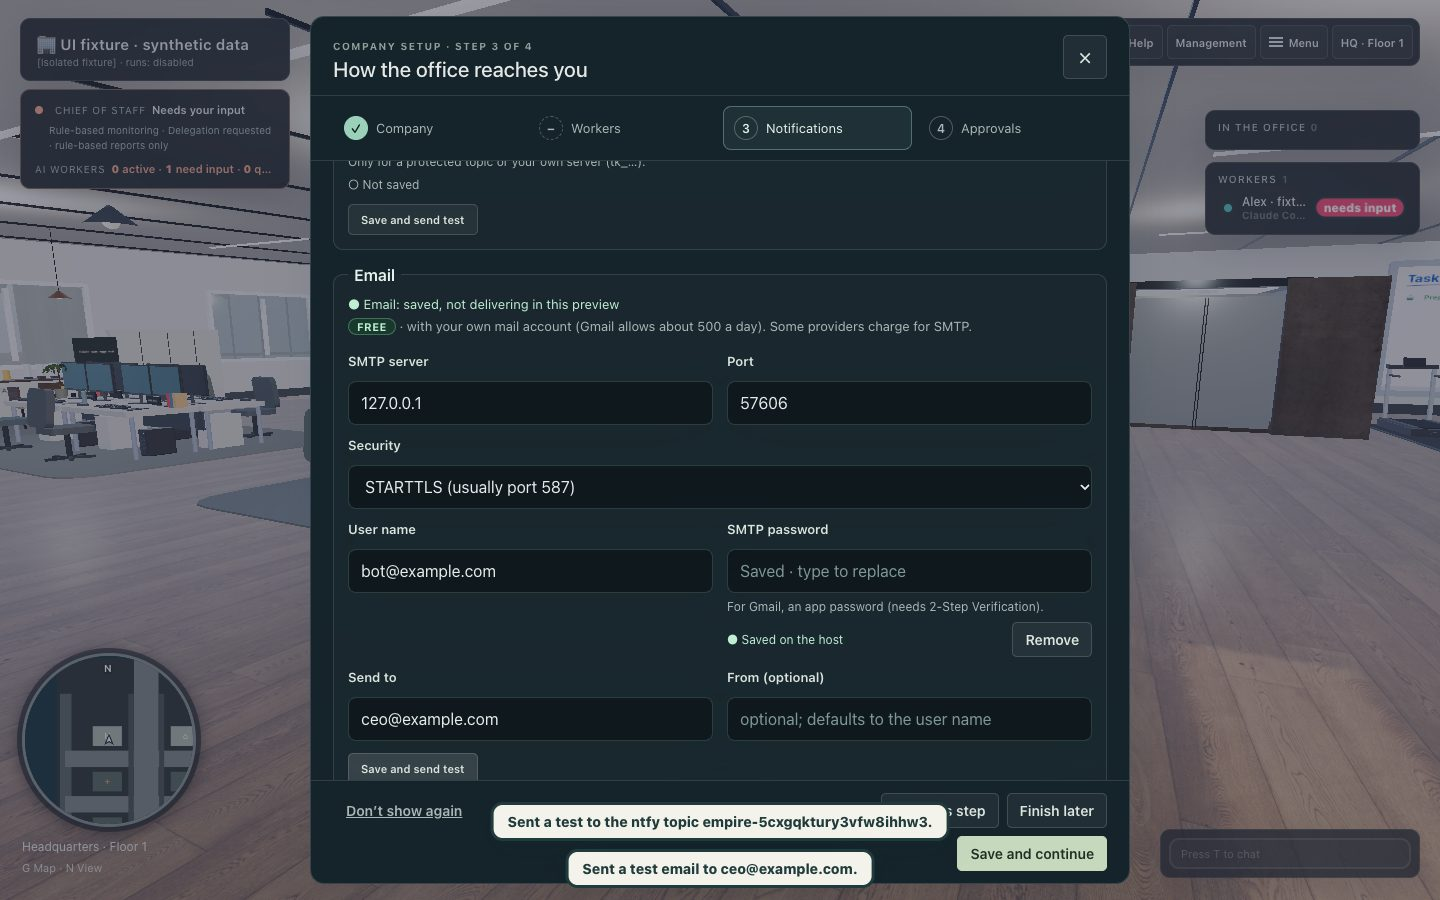
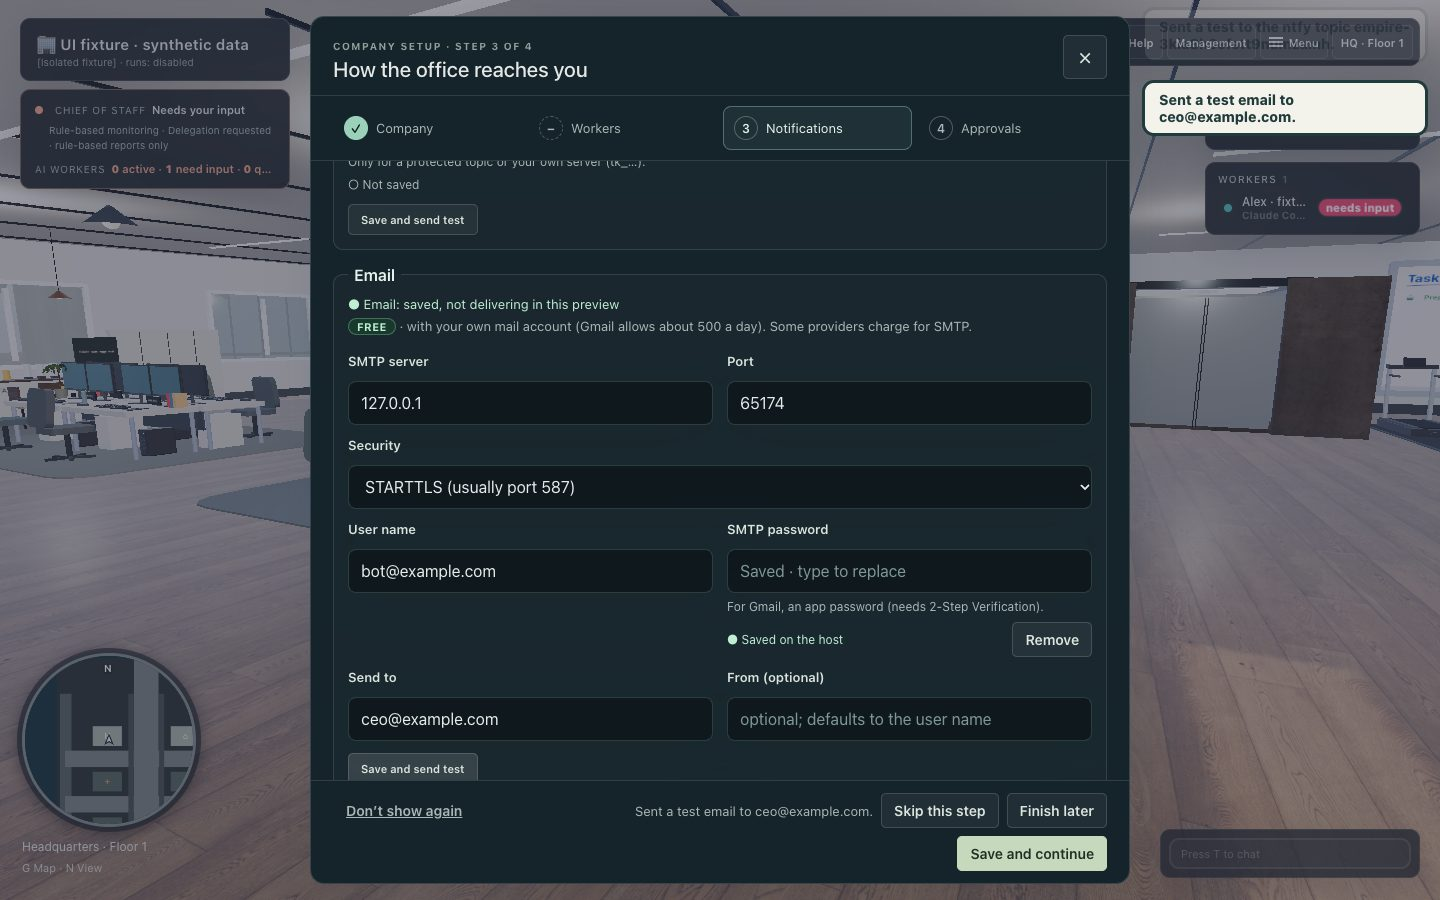
Review fixes: toasts stay clear of dialog footers; Company setup brings an open onboarding to the front
- placeToasts (ui/dom.ts): with a dialog open, toasts go beside it (top-right,
  outside its box) when there is room, else just above its footer; the update
  toast (Restart/Later, pointer events on) waits for the dialog to close in the
  narrow case. onboarding-ui-check now also asserts the footer and its buttons
  are uncovered and that an update toast never overlaps the dialog.
- Settings > Company setup while onboarding is open under Settings closes the
  dialogs above it and brings it back on its current step, without the 'reopen'
  call that moved host progress. Checked by clicking it from Settings opened by
  'Open Linked accounts…' (failed before: Settings stayed in front).
- Android debug builds: http://[::1] gets a clear message (the shell allows only
  10.0.2.2, 127.0.0.1 and localhost).

diff --git a/tools/onboarding-ui-check.ts b/tools/onboarding-ui-check.ts
@@ -49,14 +49,34 @@ async function next(p: Page) {
   await modal(p).locator('footer button.primary').click();
   await p.waitForTimeout(500);
 }
-/** Visible toasts that overlap the onboarding dialog's header or step rail (DEVTEST-02: they used to stack over the tabs). */
+/**
+ * Visible toasts that overlap the onboarding dialog's header, step rail, footer or footer buttons (DEVTEST-02: they
+ * first stacked over the tabs, then a bottom placement covered the footer).
+ */
 async function toastsOverHeader(p: Page) {
   return p.evaluate(() => {
     const m = document.querySelector('.onboarding-modal');
-    const zones = [m?.querySelector('header'), m?.querySelector('.ob-rail')].filter(Boolean).map((e) => (e as HTMLElement).getBoundingClientRect());
+    const zones = [m?.querySelector('header'), m?.querySelector('.ob-rail'), m?.querySelector(':scope > footer'), ...(m?.querySelectorAll(':scope > footer button') ?? [])]
+      .filter((e) => e && (e as HTMLElement).getClientRects().length).map((e) => (e as HTMLElement).getBoundingClientRect());
     const toasts = [...document.querySelectorAll('#toasts .toast')].filter((t) => t.getClientRects().length && getComputedStyle(t).visibility !== 'hidden').map((t) => t.getBoundingClientRect());
     const hit = toasts.filter((t) => zones.some((z) => t.left < z.right && t.right > z.left && t.top < z.bottom && t.bottom > z.top));
-    return { toasts: toasts.length, over: hit.length };
+    return { toasts: toasts.length, zones: zones.length, over: hit.length };
+  });
+}
+
+/** An update toast (Restart/Later buttons, pointer-events on) shown while the dialog is open: hidden, or clear of the dialog box. */
+async function updateToastClear(p: Page) {
+  return p.evaluate(() => {
+    const t = document.createElement('div');
+    t.className = 'toast update-toast';
+    t.innerHTML = '<span>A new version is ready</span><span class="update-toast-actions"><button class="btn primary">Restart</button><button class="btn">Later</button></span>';
+    document.getElementById('toasts')!.append(t);
+    const m = document.querySelector('.onboarding-modal')!.getBoundingClientRect();
+    const shown = t.getClientRects().length > 0;
+    const r = t.getBoundingClientRect();
+    const overlaps = shown && r.left < m.right && r.right > m.left && r.top < m.bottom && r.bottom > m.top;
+    t.remove();
+    return { shown, overlaps };
   });
 }
 
@@ -121,8 +141,20 @@ async function main() {
     await modal(p).getByRole('button', { name: 'Open Linked accounts…' }).click();
     const linked = await p.waitForSelector('.linked-accounts', { timeout: 10_000 }).then(() => true, () => false);
     check('"Open Linked accounts…" opens the existing panel above onboarding', linked);
-    await p.keyboard.press('Escape');
-    await p.waitForTimeout(400);
+    // Settings › Company setup while onboarding is open underneath: the same dialog comes back to the front, on the
+    // step it was on, and the host's progress is not moved by a "reopen" (DEVTEST-02 review).
+    const before = (await fixtureInfo(base)).progress;
+    await p.locator('.settings-modal .onboarding-section button').click();
+    await p.waitForFunction(() => !document.querySelector('.settings-modal') && document.querySelector('#modal-root > .backdrop:last-child .onboarding-modal'), null, { timeout: 10_000 }).catch(() => {});
+    const front = await p.evaluate(() => ({
+      settings: document.querySelectorAll('.settings-modal').length,
+      onboarding: document.querySelectorAll('.onboarding-modal').length,
+      topIsOnboarding: !!document.querySelector('#modal-root > .backdrop:last-child .onboarding-modal'),
+      focusInside: !!document.activeElement?.closest('.onboarding-modal'),
+    }));
+    const after = (await fixtureInfo(base)).progress;
+    check('Settings › Company setup over onboarding brings that dialog to the front (one dialog, focus inside)', front.settings === 0 && front.onboarding === 1 && front.topIsOnboarding && front.focusInside, JSON.stringify(front));
+    check('…on the step it was on, without moving the host progress', (await stepTitle(p)) === 'Who does the work' && after.current === before.current && after.status === before.status, `${await stepTitle(p)} | ${JSON.stringify(before)} -> ${JSON.stringify(after)}`);
     check('closing Linked accounts returns to onboarding', (await modal(p).count()) === 1 && (await p.locator('.linked-accounts').count()) === 0);
     await modal(p).getByRole('button', { name: 'Skip this step' }).click();
     await p.waitForTimeout(500);
@@ -161,7 +193,9 @@ async function main() {
     check('saved secrets are shown only as present', (await body.locator('.ob-secret-state[data-present=true]').count()) === 2 && /Saved · type to replace/.test((await tg.getByLabel('Bot token').getAttribute('placeholder')) ?? ''));
     check('saved channels say they do not deliver in this preview', /saved, not delivering in this preview/.test((await tg.textContent()) ?? ''));
     const t1 = await toastsOverHeader(p);
-    check('1440x900: "test sent" toasts never cover the dialog header or step tabs', t1.toasts > 0 && t1.over === 0, JSON.stringify(t1));
+    check('1440x900: "test sent" toasts never cover the dialog header, step tabs, footer or its buttons', t1.toasts > 0 && t1.zones >= 4 && t1.over === 0, JSON.stringify(t1));
+    const u1 = await updateToastClear(p);
+    check('1440x900: an update toast never overlaps the open dialog', !u1.overlaps, JSON.stringify(u1));
     await p.screenshot({ path: resolve(out, '04-notifications-saved-and-tested-1440x900.jpg'), quality: 82, fullPage: false });
     await body.evaluate((el) => { el.scrollTop = el.scrollHeight; });
     await p.screenshot({ path: resolve(out, '04b-notifications-email-1440x900.jpg'), quality: 82 });
@@ -237,7 +271,9 @@ async function main() {
       await s.page.waitForTimeout(700);
     }
     const t2 = await toastsOverHeader(s.page);
-    check('667x375: "test sent" toasts never cover the dialog header or step tabs', t2.toasts > 0 && t2.over === 0, JSON.stringify(t2));
+    check('667x375: "test sent" toasts never cover the dialog header, step tabs, footer or its buttons', t2.toasts > 0 && t2.zones >= 4 && t2.over === 0, JSON.stringify(t2));
+    const u2 = await updateToastClear(s.page);
+    check('667x375: an update toast never overlaps the open dialog', !u2.overlaps, JSON.stringify(u2));
     await s.page.screenshot({ path: resolve(out, '08b-notifications-toasts-667x375.jpg'), quality: 82 });
     check('667x375: no console errors', s.errors.length === 0, s.errors.join(' | '));
     await s.context.close();

diff --git a/src/client/ui/dom.ts b/src/client/ui/dom.ts
@@ -51,6 +51,13 @@ export function modalOpen(): boolean {
   return stack.length > 0;
 }
 
+/** Closes every dialog stacked above `modal`, so it is in front again (and takes focus back). */
+export function bringToFront(modal: Modal) {
+  if (!stack.includes(modal)) return;
+  while (stack[stack.length - 1] !== modal) stack[stack.length - 1].close();
+  if (!modal.el.contains(document.activeElement)) (focusables(modal.el)[0] ?? modal.el).focus({ preventScroll: true });
+}
+
 const FOCUSABLE = 'a[href], button:not([disabled]), input:not([disabled]), select:not([disabled]), textarea:not([disabled]), summary, [tabindex]:not([tabindex="-1"])';
 
 function focusables(root: HTMLElement): HTMLElement[] {
@@ -157,9 +164,51 @@ export function closeAllModals() {
   while (stack.length) stack[stack.length - 1].close();
 }
 
+const SIDE_MIN = 260;
+let watched: Element | null = null;
+const resizeWatch = typeof ResizeObserver !== 'undefined' ? new ResizeObserver(() => placeToasts()) : null;
+
+/**
+ * Toasts must never cover an open dialog's header, tabs or footer (DEVTEST-02 review). With room beside the dialog they
+ * sit there (top-right, outside its box); otherwise just above its footer. In that narrow case an interactive toast
+ * (the update toast) is held back until the dialog closes, so it can't block the dialog's controls.
+ */
+export function placeToasts() {
+  const box = document.getElementById('toasts');
+  if (!box) return;
+  const top = stack[stack.length - 1];
+  if (watched !== (top?.el ?? null)) {
+    if (watched) resizeWatch?.unobserve(watched);
+    watched = top?.el ?? null;
+    if (watched) resizeWatch?.observe(watched);
+  }
+  if (!top) {
+    delete box.dataset.place;
+    box.style.cssText = '';
+    return;
+  }
+  const r = top.el.getBoundingClientRect();
+  const gap = 12;
+  const side = window.innerWidth - r.right - gap * 2;
+  if (side >= SIDE_MIN) {
+    box.dataset.place = 'side';
+    box.style.cssText = `position: fixed; left: ${Math.round(r.right + gap)}px; top: ${Math.round(Math.max(r.top, gap))}px; bottom: auto; width: ${Math.round(Math.min(side, 360))}px; transform: none; align-items: stretch;`;
+  } else {
+    const footer = top.el.querySelector(':scope > footer');
+    const edge = footer ? footer.getBoundingClientRect().top : r.bottom;
+    box.dataset.place = 'above-footer';
+    box.style.cssText = `position: fixed; top: auto; bottom: ${Math.round(window.innerHeight - edge + 8)}px; max-width: min(560px, calc(100vw - 32px));`;
+  }
+}
+if (typeof window !== 'undefined') {
+  listeners.add(() => requestAnimationFrame(placeToasts));
+  window.addEventListener('resize', () => placeToasts());
+}
+
 export function toast(text: string, level: 'info' | 'warn' | 'error' = 'info', ms = 3500) {
   const el = h('div.toast', { class: level }, text);
   document.getElementById('toasts')!.append(el);
+  placeToasts();
   setTimeout(() => {
     el.style.transition = 'opacity .3s';
     el.style.opacity = '0';

diff --git a/src/client/setup/server-login.ts b/src/client/setup/server-login.ts
@@ -6,7 +6,7 @@ import { normaliseHost } from '../endpoint';
 import type { AppPlatform } from '../native';
 
 export type LoginError =
-  | 'empty_host' | 'bad_host' | 'has_path' | 'https_required' | 'https_required_android' | 'empty_password'
+  | 'empty_host' | 'bad_host' | 'has_path' | 'https_required' | 'https_required_android' | 'https_required_android_debug' | 'empty_password'
   | 'unreachable' | 'not_empire' | 'wrong_password' | 'rate_limited' | 'too_many_devices' | 'server' | 'bad_response';
 
 export const LOGIN_MESSAGES: Record<LoginError, string> = {
@@ -14,6 +14,7 @@ export const LOGIN_MESSAGES: Record<LoginError, string> = {
   bad_host: 'That doesn’t look like a server address.',
   has_path: 'Enter only the server address, without a path, query or password.',
   https_required: 'The server must use HTTPS. Only this device’s own address (localhost) may use http.',
+  https_required_android_debug: 'Development builds of the Android app allow http only for 10.0.2.2, 127.0.0.1 and localhost. Use one of those or an https:// address.',
   https_required_android: 'Release builds of the Android app connect over HTTPS only, even to a server on this network or computer. Enter an https:// address.',
   empty_password: 'Enter the office password.',
   unreachable: 'Can’t reach that server. Check the address, your connection, and that its HTTPS certificate is valid.',
@@ -33,6 +34,8 @@ export class LoginFailure extends Error {
 }
 
 const LOOPBACK = new Set(['localhost', '127.0.0.1', '[::1]']);
+/** The debug Android shell's http hosts (ServerPolicy.DEBUG_HTTP_HOSTS). */
+const ANDROID_DEBUG_HTTP = new Set(['10.0.2.2', '127.0.0.1', 'localhost']);
 
 /** Who is asking: the shell's platform, and whether an Android shell is a debuggable build (window.AGENT_EMPIRE_APP.devBuild). */
 export interface AddressContext {
@@ -62,6 +65,7 @@ export function parseServerAddress(input: string, opts: AddressContext = {}): { 
   if (url.protocol === 'http:') {
     const android = opts.platform === 'android';
     if (android && !opts.devBuild) return { ok: false, error: 'https_required_android' };
+    if (android && !ANDROID_DEBUG_HTTP.has(url.hostname)) return { ok: false, error: LOOPBACK.has(url.hostname) ? 'https_required_android_debug' : 'https_required' };
     if (!LOOPBACK.has(url.hostname) && !(android && url.hostname === '10.0.2.2')) return { ok: false, error: 'https_required' };
   }
   const host = normaliseHost(url.origin);

diff --git a/src/client/ui/onboarding.ts b/src/client/ui/onboarding.ts
@@ -8,7 +8,7 @@
  * its name/size/licence confirmation.
  */
 import { apiFetch } from '../endpoint';
-import { h, openModal, toast, type Modal } from './dom';
+import { bringToFront, h, openModal, toast, type Modal } from './dom';
 import { enginesApi } from './engines';
 import { chiefApi } from './chief';
 import {
@@ -91,12 +91,17 @@ export interface OnboardingHooks {
   cloud?: boolean;
 }
 
-/** The onboarding dialog that is open now: a second request (Settings › Company setup, the first-run offer) reuses it. */
+/**
+ * The onboarding dialog that is open now. A second request (Settings › Company setup opened over it via "Open Linked
+ * accounts…", or the first-run offer) closes the dialogs above it and brings it back to the front, with its live state.
+ */
 let openDialog: Modal | null = null;
+
+export const onboardingOpen = () => !!openDialog?.backdrop.isConnected;
 
 export function openOnboarding(hooks: OnboardingHooks, initial?: OnboardingView): Modal {
   if (hooks.cloud) return cloudPanel();
-  if (openDialog?.backdrop.isConnected) return openDialog;
+  if (openDialog?.backdrop.isConnected) { bringToFront(openDialog); return openDialog; }
   let view = initial;
   let busy = false;
   let doneScreen = false;
@@ -370,6 +375,8 @@ export function onboardingSection(hooks: OnboardingHooks) {
   const open = h('button.btn', { type: 'button' }, 'Company setup…');
   open.addEventListener('click', async () => {
     if (hooks.cloud) { cloudPanel(); return; }
+    // Already open (under Settings): bring it back as it is; "reopen" would move the host's progress behind its back.
+    if (onboardingOpen()) { openOnboarding(hooks); return; }
     try { const v = await onboardingApi.progress({ action: 'reopen' }); openOnboarding(hooks, v); }
     catch (e) { toast((e as Error).message, 'warn'); }
   });

diff --git a/src/client/style.css b/src/client/style.css
@@ -1056,10 +1056,11 @@ html.ae-touch .radar-stats, html.ae-touch .crosshair .look-hint { display: none 
 html.ae-touch .hint { bottom: calc(14px + env(safe-area-inset-bottom)); max-width: calc(100vw - 370px - env(safe-area-inset-left) - env(safe-area-inset-right)); gap: 6px 10px; padding: 7px 12px; font-size: 12px; }
 html.ae-touch .traversal-hint { top: calc(58px + env(safe-area-inset-top)); bottom: auto; left: 50%; right: auto; transform: translateX(-50%); max-width: calc(100vw - 300px); font-size: 11px; }
 html.ae-touch #toasts { top: calc(58px + env(safe-area-inset-top)); }
-/* While a dialog is open its header and tabs sit where toasts appear: toasts move to the bottom edge instead, newest
-   lowest, and only the two newest show (DEVTEST-02: "test sent" toasts stacked over the onboarding step tabs). */
-html:has(#modal-root > .backdrop) #toasts { top: auto; bottom: calc(12px + env(safe-area-inset-bottom)); z-index: 60; }
-html:has(#modal-root > .backdrop) #toasts > .toast:nth-last-child(n + 3) { display: none; }
+/* While a dialog is open, placeToasts() (ui/dom.ts) puts toasts beside it or just above its footer, never over its
+   header, tabs or footer. Only the two newest show; above the footer the interactive update toast waits for the dialog
+   to close so it can't block the dialog's controls. */
+#toasts[data-place] > .toast:nth-last-child(n + 3) { display: none; }
+#toasts[data-place="above-footer"] > .toast.update-toast { display: none; }
 html.ae-touch #hud #conn { top: calc(58px + env(safe-area-inset-top)); bottom: auto; }
 html.ae-touch #hud #shares { top: calc(58px + env(safe-area-inset-top)); bottom: auto; left: calc(12px + env(safe-area-inset-left)); }
 html.ae-touch .share-thumb { width: 150px; }

diff --git a/tests/setup-cloud.test.ts b/tests/setup-cloud.test.ts
@@ -323,6 +323,10 @@ test('server address: a release Android build says plainly that it needs HTTPS (
     assert.deepEqual(parseServerAddress(address, { platform: 'android' }), { ok: false, error: 'https_required_android' }, address);
   assert.deepEqual(parseServerAddress('https://city.example.com', { platform: 'android' }), { ok: true, host: 'https://city.example.com' });
   assert.deepEqual(parseServerAddress('http://localhost:4707', { platform: 'android', devBuild: true }), { ok: true, host: 'http://localhost:4707' }, 'debug builds keep their local test hosts');
+  // The debug shell's ServerPolicy allows http only for 10.0.2.2, 127.0.0.1 and localhost; [::1] gets its own message.
+  assert.deepEqual(parseServerAddress('http://[::1]:4707', { platform: 'android', devBuild: true }), { ok: false, error: 'https_required_android_debug' });
+  assert.match(new LoginFailure('https_required_android_debug').message, /10\.0\.2\.2, 127\.0\.0\.1 and localhost/);
+  assert.deepEqual(parseServerAddress('http://[::1]:4707'), { ok: true, host: 'http://[::1]:4707' }, 'browsers keep [::1]');
   const android = new LoginFailure('https_required_android').message;
   assert.match(android, /HTTPS/);
   assert.match(android, /release/i);
